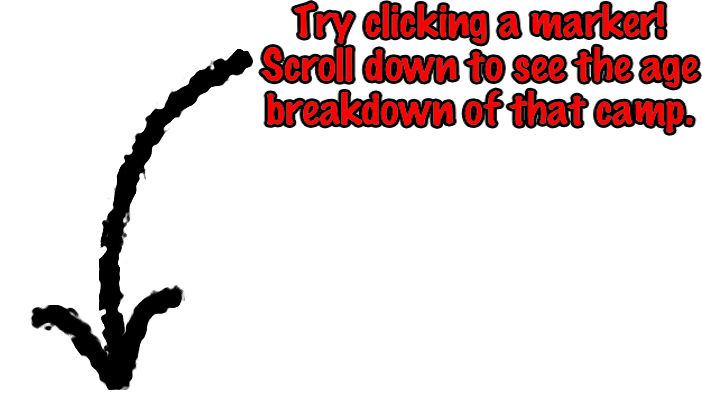
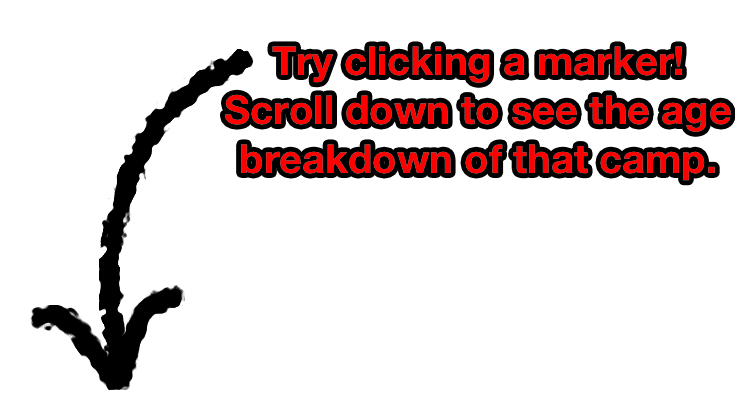
Minor presentation fixes

Changed region(s): [[0.0299, 0.0, 1.0, 0.933]]

diff --git a/public/js/bar_graph.js b/public/js/bar_graph.js
@@ -189,9 +189,38 @@ BarGraph.method("render", function() {
       .attr("class", "title")
       .attr("text-anchor", "middle")
       .attr("x", (this.width / 2))
-      .attr("y", this.margin / 4)
+      .attr("y", 12)
       .style("font-size", "12px")
       .text("Age breakdown for refugee camp: " + this.address)
+
+  this.svg
+      .append("text")
+      .attr("class", "femaleKey")
+      .attr("text-anchor", "end")
+      .attr("x", (this.width / 2) - (this.middlePadding / 2))
+      .attr("y", 32)
+      .style("font-size", "10px")
+      .style("fill", "pink")
+      .text("[female]")
+
+  this.svg
+      .append("text")
+      .attr("class", "maleKey")
+      .attr("text-anchor", "start")
+      .attr("x", (this.width / 2) + (this.middlePadding / 2))
+      .attr("y", 32)
+      .style("font-size", "10px")
+      .style("fill", "steelblue")
+      .text("[male]")
+
+  this.svg
+      .append("text")
+      .attr("class", "ageKey")
+      .attr("text-anchor", "middle")
+      .attr("x", (this.width / 2))
+      .attr("y", 32)
+      .style("font-size", "10px")
+      .text("[age]")
 
   this.svg
       .selectAll(".male")

diff --git a/public/index.html b/public/index.html
@@ -9,7 +9,7 @@
     <div class="container">
       <div class="row">
         <div class="span7">
-          <h1>Africa Refugee Populations</h1>
+          <h1>Africa's refugee populations</h1>
         </div>
         <div class="span4">
           <img id="legend" src="images/legend.png" />
@@ -18,7 +18,7 @@
       <div class="row">
         <div class="span6 wrapper">
           <div id="map"></div>
-          <img width="175" id="mapArrow" src="images/arrow.png" class="arrow" />
+          <img width="200" id="mapArrow" src="images/arrow.png" class="arrow" />
         </div>
         <div class="span6 wrapper">
           <div id="scatter1"></div>
@@ -31,7 +31,7 @@
           <div id="graph"></div>
         </div>
       </div>
-      <footer id="footer" class="footer">Crafted by: Ben Rudolph | <a href="http://apps.who.int/globalatlas/default.asp">
+      <footer id="footer" class="footer">Crafted with love, by: <a href="https://github.com/benrudolph">Ben Rudolph</a> | <a href="http://www.unhcr.org/pages/4a013eb06.html">
         Data source</a>
       </footer>
     </div>

diff --git a/public/css/styles.css b/public/css/styles.css
@@ -79,7 +79,7 @@ circle.selected {
 }
 
 #mapArrow {
-  top: 100px;
+  top: 90px;
   left: 70px;
 }
 
